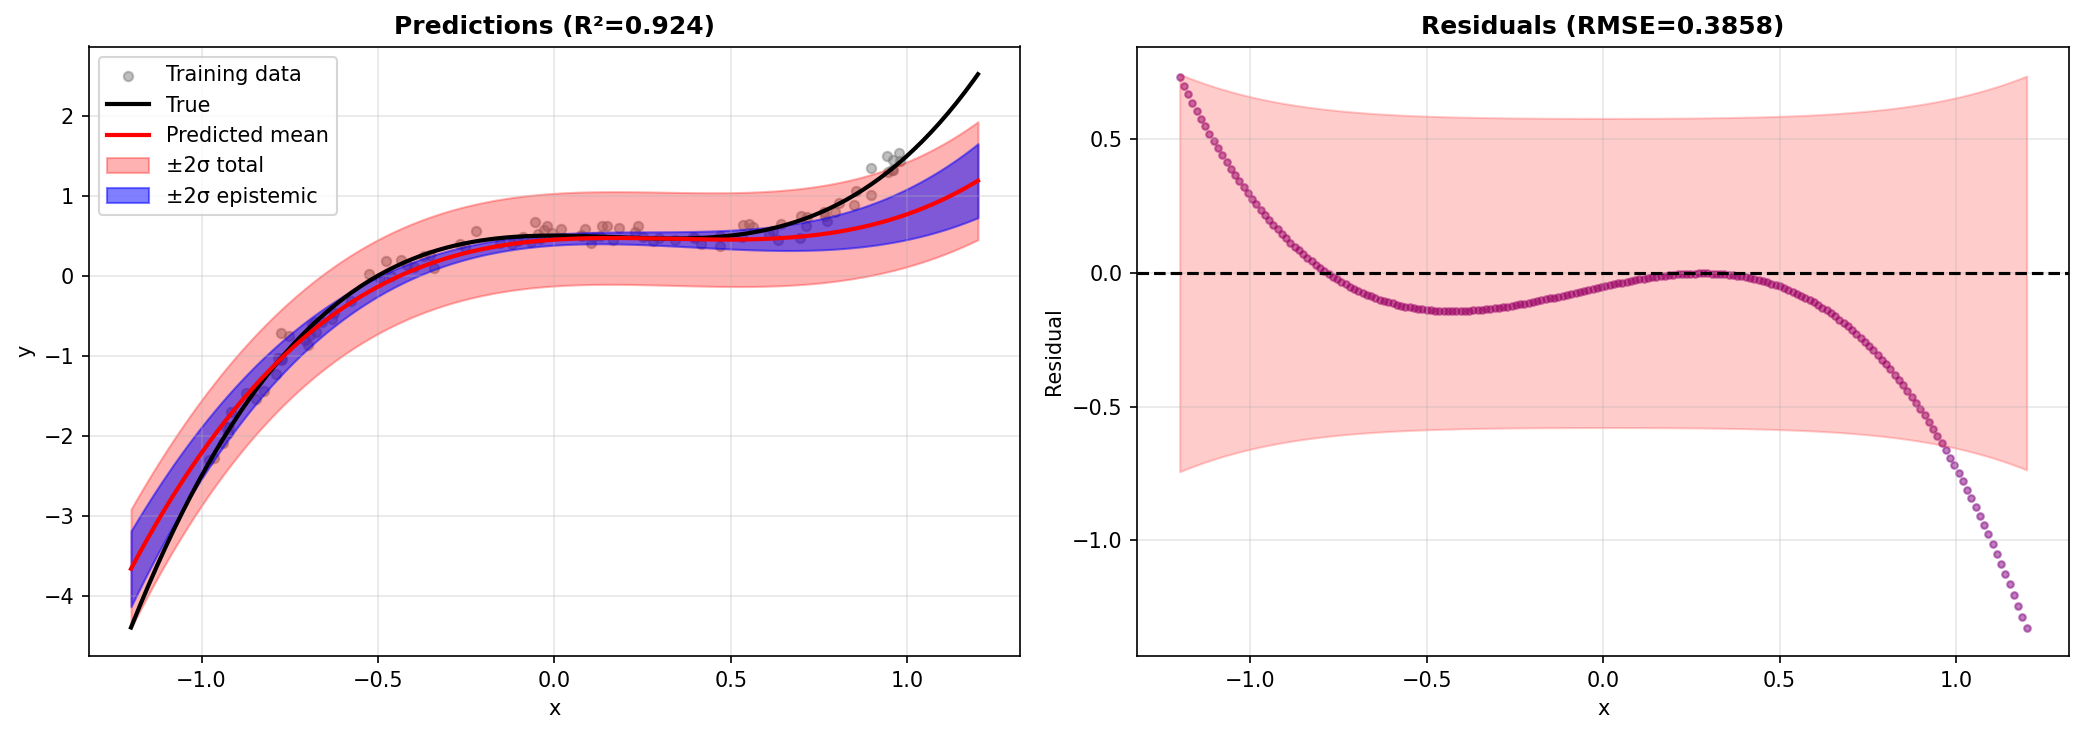
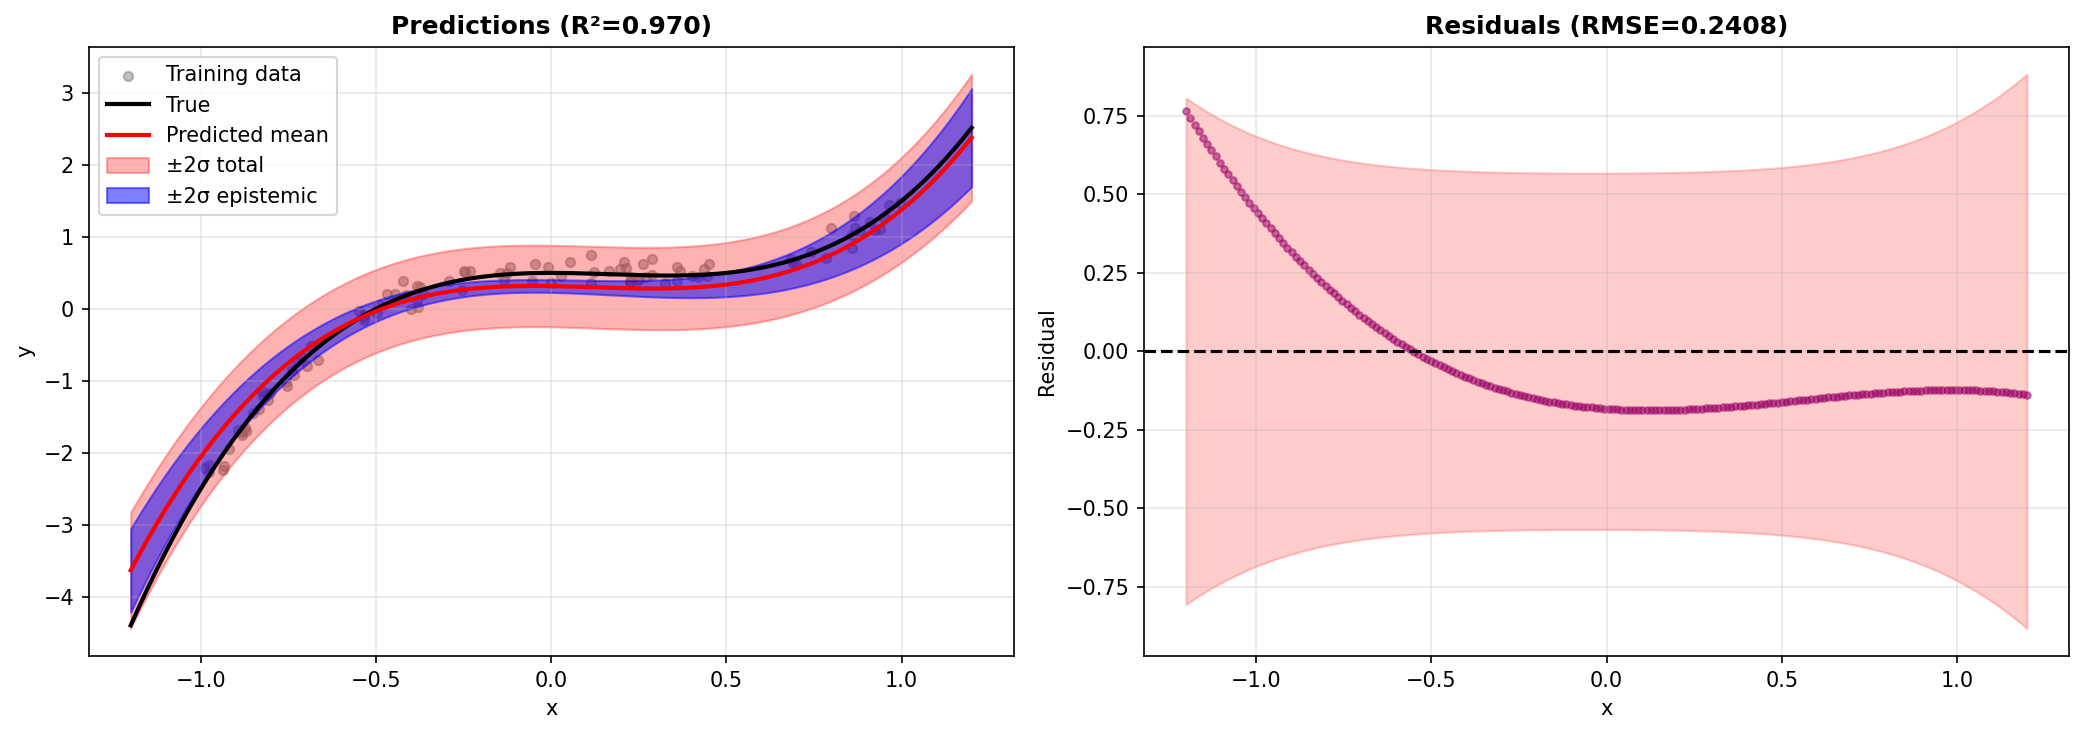
kindaWorking-NOELBO?INSTABLEFORHIGHERBLOCKS

diff --git a/experiment_regression_testing.py b/experiment_regression_testing.py
@@ -1,0 +1,134 @@
+import torch
+import numpy as np
+import os
+from sklearn.datasets import fetch_california_housing, load_diabetes
+from sklearn.model_selection import train_test_split
+from sklearn.preprocessing import StandardScaler
+from tensor.bayesian_mpo_builder import create_bayesian_tensor_train
+import aim
+from aim_auth import Run
+
+# ============================================================================
+# EXPERIMENT CONFIGURATION
+# ============================================================================
+NUM_BLOCKS_RANGE = [2, 3, 4]
+BOND_DIM_RANGE = [2,3,4]
+MAX_ITER = 5
+SEED = 42
+PRIOR_SEED = 42
+TEST_SIZE = 0.2
+
+# AIM Tracking setup
+AIM_REPO = 'aim://192.168.5.5:5800'
+
+# ============================================================================
+# DATA LOADING AND PREPARATION
+# ============================================================================
+print("Loading Diabetes dataset...")
+diabetes = fetch_california_housing()
+X, y_raw = diabetes.data, diabetes.target
+
+# Add a bias term (intercept) to the features
+X_b = np.hstack([np.ones((X.shape[0], 1)), X])
+y_raw = y_raw.reshape(-1, 1)
+
+# Split data
+X_train, X_test, y_train_raw, y_test_raw = train_test_split(
+    X_b, y_raw, test_size=TEST_SIZE, random_state=SEED
+)
+
+# Standardize features (excluding the bias term)
+scaler_X = StandardScaler()
+X_train[:, 1:] = scaler_X.fit_transform(X_train[:, 1:])
+X_test[:, 1:] = scaler_X.transform(X_test[:, 1:])
+
+# Standardize target
+scaler_y = StandardScaler()
+y_train = scaler_y.fit_transform(y_train_raw)
+y_test = scaler_y.transform(y_test_raw)
+
+# Convert to torch tensors
+X_train = torch.from_numpy(X_train).double()
+y_train = torch.from_numpy(y_train).double().squeeze()
+X_test = torch.from_numpy(X_test).double()
+y_test = torch.from_numpy(y_test).double().squeeze()
+
+INPUT_DIM = X_train.shape[1]
+print(f"Data loaded and preprocessed. Input dimensions: {INPUT_DIM}")
+print(f"Train shape: X={X_train.shape}, y={y_train.shape}")
+print(f"Test shape:  X={X_test.shape}, y={y_test.shape}")
+print("-" * 70)
+
+# ============================================================================
+# MAIN EXPERIMENT LOOP
+# ============================================================================
+print("Starting regression testing experiment...")
+
+for num_blocks in NUM_BLOCKS_RANGE:
+    for bond_dim in BOND_DIM_RANGE:
+        print(f"Running experiment for: Blocks={num_blocks}, BondDim={bond_dim}")
+
+        run = Run(repo=AIM_REPO, experiment='regression_testing')
+        
+        run['hparams'] = {
+            'num_blocks': num_blocks,
+            'bond_dim': bond_dim,
+            'max_iter': MAX_ITER,
+            'dataset': 'california_housing',
+            'seed': SEED,
+            'prior_seed': PRIOR_SEED,
+        }
+
+        bmpo = create_bayesian_tensor_train(
+            num_blocks=num_blocks,
+            bond_dim=bond_dim,
+            input_features=INPUT_DIM,
+            output_shape=1,
+            dtype=torch.float64,
+            seed=SEED,
+            random_priors=True,
+            prior_seed=PRIOR_SEED
+        )
+
+        for iteration in range(MAX_ITER):
+            # --- Training Step ---
+            for block_idx in range(num_blocks):
+                bmpo.update_block_variational(block_idx, X_train, y_train)
+            for label in bmpo.mu_mpo.distributions.keys():
+                bmpo.update_bond_variational(label)
+            bmpo.update_tau_variational(X_train, y_train)
+
+            # --- Metrics Tracking (at every iteration) ---
+            context = {'subset': 'train'}
+            mu_train = torch.as_tensor(bmpo.forward_mu(X_train, to_tensor=True)).squeeze()
+            mse_train = ((mu_train - y_train)**2).mean().item()
+            r2_train = 1 - mse_train / y_train.var().item()
+            run.track(mse_train, name='mse', step=iteration, context=context)
+            run.track(r2_train, name='r2', step=iteration, context=context)
+
+            context = {'subset': 'test'}
+            mu_test = torch.as_tensor(bmpo.forward_mu(X_test, to_tensor=True)).squeeze()
+            sigma_test = torch.as_tensor(bmpo.forward_sigma(X_test, to_tensor=True)).squeeze()
+            
+            mse_test = ((mu_test - y_test)**2).mean().item()
+            rmse_test = np.sqrt(mse_test)
+            r2_test = 1 - mse_test / y_test.var().item()
+            
+            tau_mean = bmpo.get_tau_mean().item()
+            aleatoric_var = 1.0 / tau_mean
+            total_var = sigma_test + aleatoric_var
+            
+            run.track(mse_test, name='mse', step=iteration, context=context)
+            run.track(rmse_test, name='rmse', step=iteration, context=context)
+            run.track(r2_test, name='r2', step=iteration, context=context)
+            run.track(tau_mean, name='tau_mean', step=iteration, context=context)
+            run.track(sigma_test.mean().item(), name='mean_epistemic_variance', step=iteration, context=context)
+            run.track(total_var.mean().item(), name='mean_total_variance', step=iteration, context=context)
+
+            if (iteration + 1) % 5 == 0:
+                print(f"  Iter {iteration+1:3d}: Train R²={r2_train:.4f} | Test R²={r2_test:.4f} | E[τ]={tau_mean:.2f}")
+        
+        print("-" * 70)
+        run.close()
+
+print("Experiment finished.")

diff --git a/tensor/bayesian_mpo.py b/tensor/bayesian_mpo.py
@@ -7,7 +7,10 @@ Contains:
 - Prior distributions: Gamma distributions for each mode of μ-MPO
 - τ distribution: Gamma(α, β) for noise/regularization
 """
-
+# TODO: Truncation Criteria:
+# we retain all mode components for the first three iterations to allow the model enough flexibility before removing potentially useful components. After that, we remove components that contribute less than An arbitrary treshold to the total variance. To identify low variance component we can just look at the diagonal value of the sigma block and remove components whose diagonal values fall below the variance threshold. 
+# 
+# TODO: Sigma initialization should depend on all modes not only on the ranks.
 import torch
 from tensor.node import TensorNode
 from tensor.network import TensorNetwork
@@ -653,7 +656,8 @@ class BayesianMPO:
             # Shape: (bond_size,)
             
             # ADD to rate_q
-            rate_q = rate_q + partial_trace
+            # NOTE: Added the 0.5*, will it work?
+            rate_q = rate_q + 0.5*partial_trace
         
         # Update the bond parameters
         self.update_mu_params(label, concentration=concentration_q, rate=rate_q)
@@ -861,6 +865,7 @@ class BayesianMPO:
         """
         L = torch.linalg.cholesky(sigma_inv)
         sigma_cov = torch.cholesky_inverse(L)
+        # TODO: Is this cholesky solve doing the same as mu_flat = torch.matmul(sigma_cov, rhs)? matmul is correct, and if they are doing the same, why prefering cholesky solve?
         mu_flat = torch.cholesky_solve(rhs.unsqueeze(-1), L).squeeze(-1)
         return sigma_cov, mu_flat
     

diff --git a/tensor/bmpo.py b/tensor/bmpo.py
@@ -277,10 +277,10 @@ class BMPONetwork(TensorNetwork):
         
         if num_dims == 0:
             # Edge case: no dimensions
-            return torch.tensor(0.5, dtype=node.tensor.dtype, device=node.tensor.device)
+            return torch.tensor(1, dtype=node.tensor.dtype, device=node.tensor.device)
         elif num_dims == 1:
             # Single dimension: just scale
-            return factors[0].unsqueeze(0) * 0.5 if factors[0].numel() == 1 else factors[0] * 0.5
+            return factors[0].unsqueeze(0) if factors[0].numel() == 1 else factors[0]
         else:
             # Multiple dimensions: use einsum
             # Create symbolic indices for each dimension
